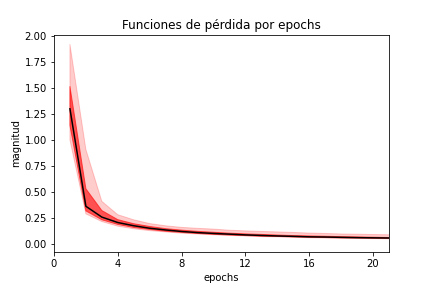
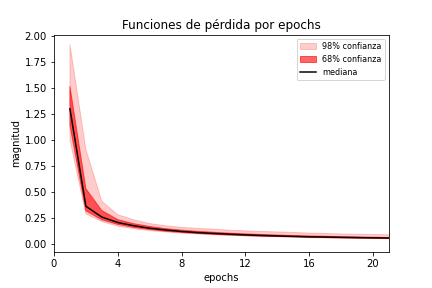
check a errores de formato

Changed region(s): [[0.6921, 0.125, 0.9028, 0.2812]]

diff --git a/3 Model.py b/3 Model.py
@@ -41,7 +41,7 @@ df = pd.DataFrame(index = iters,  data = loss)
 df.to_csv("./results/model_selected_loss.csv")
 df.head(10)
 
-# df = pd.read_csv("./results/model_selected_loss.csv")
+# df = pd.read_csv("./results/model_selected_loss.csv", index_col="Unnamed: 0")
 
 
 # Función de pérdida de modelo seleccionado ================================
@@ -65,9 +65,9 @@ plt.xticks(np.arange(0, 21, step=4)) # Limit epochs: 21
 plt.xlabel("epochs")
 plt.ylabel("magnitud")
 plt.title("Funciones de pérdida por epochs")
-plt.savefig("./figures/selected-loss.png")
 plt.legend(loc="best", fontsize=8)
 
+plt.savefig("./figures/selected-loss.png")
 plt.show()
 
 
@@ -159,7 +159,6 @@ if len(idxs) == 0:
 else:
     cnt = min(7, len(idxs))
     fig, ax = plt.subplots(1,cnt, figsize=(5,2.2))
-    fig.tight_layout(pad=0.13,rect=[0, 0.25, 1, 0.8])
 
 for i in range(cnt):
     j = idxs[i]
@@ -170,7 +169,10 @@ for i in range(cnt):
     ax[i].set_title(f"{y_test[j,0]},{yhat_test[j,0]}",fontsize=10)
     ax[i].set_axis_off()
     fig.suptitle("Errors\nLabel, yhat", fontsize=12)
-plt.savefig("./figures/model_selection_digits_errors.png")
+
+fig.tight_layout()    
+plt.subplots_adjust(top=1, hspace=0.5, wspace=0.5)
+plt.savefig("./figures/model_selection_digits_errors.png", bbox_inches="tight")
 
 
 

diff --git a/README.md b/README.md
@@ -13,30 +13,67 @@ Las imágenes son de 28x28 pixeles. Al ser transformadas en números, se vectori
 
 
 ## 2. Metodología
-(((Estructuras)))
+Se estimará tres modelos de redes neuronales que cuentan con las siguientes características:
+* Layers intermedios tienen función de activación "relu" y la final es "linear". Esto debido a que la capa final linear será tranformada a probabilidades. La categoría que cuente con mayor probabilidad será la asignada como la estimada
+* El algoritmo de optimización es Adam con un parámetro de aprendizaje de 0.001
+* Se estimará cada uno de los modelos con 100 epochs
+* Se comparará los resultados mediante la métrica MSE. Cada métrica se estimará 10 veces con diferentes valores iniciales. El modelo que cuente con la menor mediana de los MSE será el seleccionado
+
+Los modelos, dadao diferentes arquitecturas neuronales, son los siguientes:
+1. Modelo 1:
+    * Layer0 = Insumos
+    * Layer1 = 40 neuronas
+    * Layer2 = 20 neuronas
+    * Layer3 = 10 neuronas
+
+2. Modelo 2:
+    * Layer0 = Insumos
+    * Layer1 = 60 neuronas
+    * Layer2 = 30 neuronas
+    * Layer3 = 20 neuronas
+    * Layer4 = 10 neuronas  
+
+3. Modelo 3:
+    * Layer0 = Insumos
+    * Layer1 = 20 neuronas
+    * Layer2 = 20 neuronas
+    * Layer3 = 15 neuronas
+    * Layer4 = 15 neuronas 
+    * Layer5 = 10 neuronas
 
 
 ## 3. Resultados
 ### 3.1 Selección de modelo
+Tras la estimación de los modelos, los resultados se presentan a continuación:
 <p align="center">
   <img src="figures/model_selection_mse_stats.png" width="400">
 </p>
-
+Se encuentra que el modelo 2 cuenta con la menor mediana y con una de las menores desviaciones estándar entre las tres propuestas. De manera individual, también se encontró que en cada una de las diez iteraciones el MSE del modelo 2 era menor al de los demás modelos. Es por esto que se puede concluir, de manera robusta, que la arquitectura neuronal del modelo 2 cuenta con mejor ajuste que el de los demás, y será el seleccionado para las estimaciones.
 
 ### 3.2 Función de pérdida
+La manera más concreta de entender si los resultados que se encuentran en el modelo 2 son robustos pese a los valores iniciales es, como se realizó previamente, estimar su MSE. De esta manera, podemos conseguir el error de la predicción de cada dígito dado la cantidad de epochs asignados.
+
+No obstante, el MSE es una métrica final. Es decir, es un resultado concreto post estimación. Por su parte, la función de pérdida nos permite observar la dinámica de los errores por cada epoch. Dado el modelo seleccionado, se estimó 100 veces, cada una con un valor inicial tomado al azar. Los resultados de la mediana, bandas de confianza de 68% y 98% se pueden encontrar a continuación:
 <p align="center">
   <img src="figures/selected-loss.png" width="400">
 </p>
 
-
+Como se observa, los resultados nuevamente son muy robustos. Pese a que se tome diferentes valores iniciales, la función de pérdida converge rápidamente a valores cercanos a cero y con alta confianza. Se puede concluir que el valor inicial no afectará a la estimación debido a que aún así se converge al valor real.
+ 
 ### 3.3 Predicciones
+Se procede a estimar el modelo 2 con un valor inicial cualquiera. En este caso, se usó una de las semillas de los modelos ya estimados, la 150. La estimación se realizó mediante la muestra de train, y los resultados que se presentará a continuación son los asociados al de test. En líneas generales se encontró que el MSE entre ambos grupos son muy pequeños.
+
+La función de confusión de las obseraciones de test son las siguientes:
 <p align="center">
   <img src="figures/confmatrix_testing.png" width="400">
 </p>
+Se encuentra que los errores son muy pocos, dado que la gran cantidad de la distribución de valores está en la diagonal, lo cual significa que se acertó a la etiqueta correcta.
 
+Se puede observar las siguientes figuras con imágenes tomadas aleatoreamente con sus respectivas etiquetas y las etiquetas estimadas:
 <p align="center">
   <img src="figures/model_selection_digits_hits.png" width="400">
 </p>
+También se puede observar las figuras de aquellos dígitos que no lograron ser estimados. Al parecer la razón por la que la red neuronal falló al estimarlos es porque los dígitos fueron redactados en posiciones o formas que este tipo de redes neuronales no son capaces de entender, debido a sus limitaciones en cuanto a reconocer patrones:
 
 <p align="center">
   <img src="figures/model_selection_digits_errors.png" width="400">
@@ -46,6 +83,5 @@ Las imágenes son de 28x28 pixeles. Al ser transformadas en números, se vectori
 ## 4. Conclusiones
 1. Modelo de clasificación de imágenes cuenta con gran ajuste en los sets de train y test. El margen de error es muy pequeño.
 2. Resultados robustos a diferentes valores iniciales, tomados al azar.
-
-## 5. Agenda
-1. Dibujo de dígito que no coincida con las dimensiones del entrenamiento para demostrar que el modelo no performa bien sin capas convulsionales.
+3. Los errores encontrados son propios del uso de redes neuronales NO convolucionales. En este caso, el train parte del reconocimiento de pixeles y no de patrones, lo cual lo hace propio a buscar que los pixeles estén posicionados en la misma celda basado en cómo fueron entrenados.
+  * Para este tipo de situaciones mejor usar redes neuronales convolucionales debido a que esas estructuras buscan patrones similares, y podrían reconocer dígitos pese a que en las imágenes hayan sido rotados levemente.
